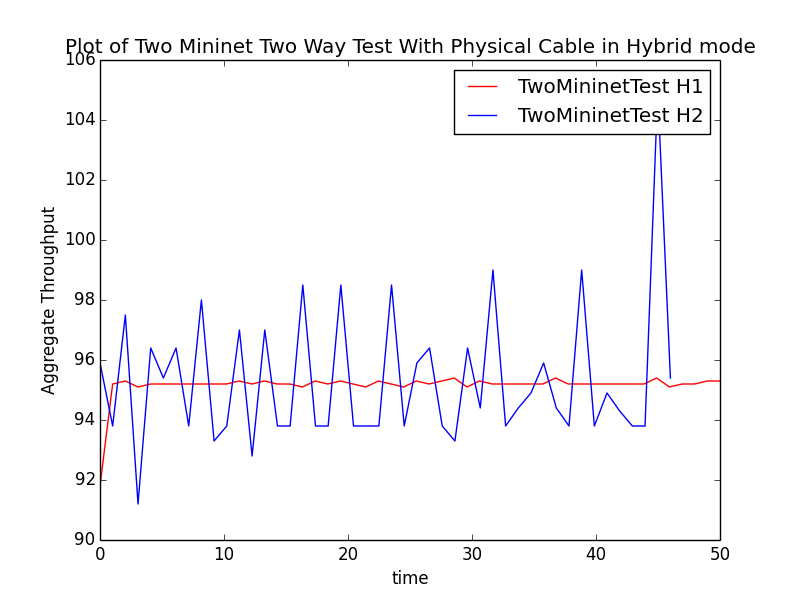
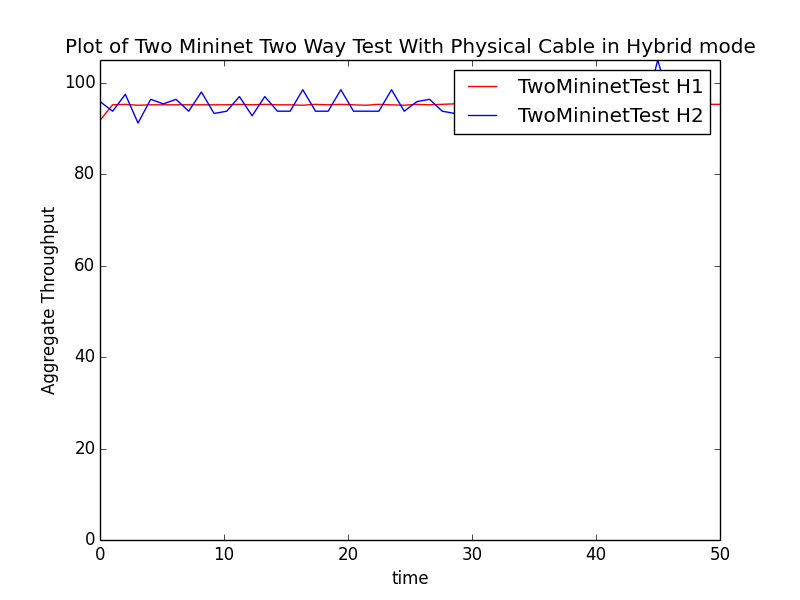
refresh plot:ylim(0,105)

diff --git a/Performance Evaluation/OneMininet(SDN+NONSDN)/Twoway/Plot.py b/Performance Evaluation/OneMininet(SDN+NONSDN)/Twoway/Plot.py
@@ -152,6 +152,6 @@ if __name__ == "__main__":
     #     # file.append(getLogFileInCDF('log'+str(i)))
     #     file1.append(getLogFile('./Log/WSCTreeLog/TreeOneMininetFullTestLog/TreeOnemininetLog' + str(i)+'v1'))
     # plot(p,file1,1,5,'g','OneMininetFullTest',1)
-
+    p.ylim(0, 105)
     p.legend(loc='lower right')
     p.show()

diff --git a/Performance Evaluation/Hybrid/TwoWay/TwoMininetPlot.py b/Performance Evaluation/Hybrid/TwoWay/TwoMininetPlot.py
@@ -153,5 +153,6 @@ if __name__ == "__main__":
     #     file1.append(getLogFile('./Log/WSCTreeLog/TreeOneMininetFullTestLog/TreeOnemininetLog' + str(i)+'v1'))
     # plot(p,file1,1,5,'g','OneMininetFullTest',1)
 
+    p.ylim(0, 105)
     p.legend(loc='upper right')
     p.show()

diff --git a/Performance Evaluation/OneMininet(SDN+NONSDN)/ForkOut/Plot.py b/Performance Evaluation/OneMininet(SDN+NONSDN)/ForkOut/Plot.py
@@ -145,5 +145,6 @@ if __name__ == "__main__":
     file3.append(getLogFile('./ForkOutTestServerThread3.log'))
     plot(p, file3, 1, 1, 'b', 'H3', 1)
 
+    p.ylim(0, 50)
     p.legend(loc='lower right')
     p.show()

diff --git a/Performance Evaluation/Hybrid/AddPica8/Plot.py b/Performance Evaluation/Hybrid/AddPica8/Plot.py
@@ -143,6 +143,6 @@ if __name__ == "__main__":
     plot(p, file2, 1, 1, 'b', 'H2', 1)
 
 
-
+    p.ylim(0,105)
     p.legend(loc='lower right')
     p.show()
